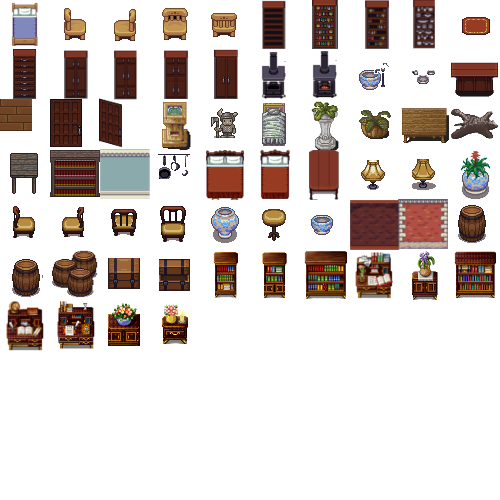
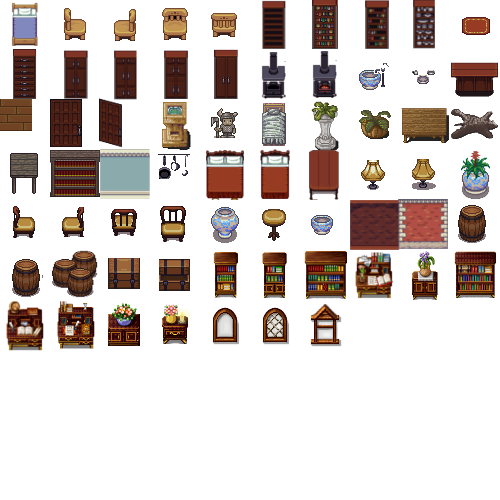
Added windows

Changed region(s): [[0.51, 0.6, 0.69, 0.69], [0.42, 0.6, 0.48, 0.69]]

diff --git a/Divine Right/DivineRightGame/Managers/LocalMapGenerator.cs b/Divine Right/DivineRightGame/Managers/LocalMapGenerator.cs
@@ -83,17 +83,49 @@ namespace DivineRightGame.Managers
                 {
                     generatedMap[x, 0].PutItemOnBlock(factory.CreateItem("mundaneitems",wallID.Value));
                     generatedMap[x, maplet.SizeY - 1].PutItemOnBlock(factory.CreateItem("mundaneitems",wallID.Value));
+
+                    if (maplet.WindowProbability.HasValue && maplet.WindowProbability.Value > 0)
+                    {
+                        if (random.Next(100) < maplet.WindowProbability.Value)
+                        {
+                            int itemID;
+                            //Put a window :)
+                            generatedMap[x, 0].ForcePutItemOnBlock(factory.CreateItem(DRObjects.Enums.Archetype.MUNDANEITEMS, "window", out itemID));
+                        }
+                        else if (random.Next(100) < maplet.WindowProbability.Value)
+                        {
+                            int itemID;
+                            //Put a window :)
+                            generatedMap[x, maplet.SizeY - 1].ForcePutItemOnBlock(factory.CreateItem(DRObjects.Enums.Archetype.MUNDANEITEMS, "window", out itemID));
+                        }
+                    }
                 }
 
                 for (int y = 0; y < maplet.SizeY; y++)
                 {
                     generatedMap[0, y].PutItemOnBlock(factory.CreateItem("mundaneitems", wallID.Value));
                     generatedMap[maplet.SizeX -1, y].PutItemOnBlock(factory.CreateItem("mundaneitems",wallID.Value));
+
+                    if (maplet.WindowProbability.HasValue && maplet.WindowProbability.Value > 0)
+                    {
+                        if (random.Next(100) < maplet.WindowProbability.Value)
+                        {
+                            int itemID;
+                            //Put a window :)
+                            generatedMap[0, y].ForcePutItemOnBlock(factory.CreateItem(DRObjects.Enums.Archetype.MUNDANEITEMS, "window", out itemID));
+                        }
+                        else if (random.Next(100) < maplet.WindowProbability.Value)
+                        {
+                            int itemID;
+                            //Put a window :)
+                            generatedMap[maplet.SizeX - 1, y].ForcePutItemOnBlock(factory.CreateItem(DRObjects.Enums.Archetype.MUNDANEITEMS, "window", out itemID));
+                        }
+                    }
                 }
 
-                //Now we need to see where to put the doors
+                //Shall we put a few winows as well?
 
-                //We'll check the planning map, if there is an edge which goes outside, then we put a door there
+
                 
             }
 

diff --git a/Divine Right/Objects/Graphics/SpriteManager.cs b/Divine Right/Objects/Graphics/SpriteManager.cs
@@ -140,7 +140,10 @@ namespace DRObjects.Graphics
             localSprites[(int)LocalSpriteName.PLANT_CABINET_2] = new SpriteData(HOUSEITEM, new Rectangle(100, 300, 50, 50));
             localSprites[(int)LocalSpriteName.PLANT_CABINET_3] = new SpriteData(HOUSEITEM, new Rectangle(150, 300, 50, 50));
 
-            
+            localSprites[(int)LocalSpriteName.WINDOW_1] = new SpriteData(HOUSEITEM, new Rectangle(200, 300, 50, 50));
+            localSprites[(int)LocalSpriteName.WINDOW_2] = new SpriteData(HOUSEITEM, new Rectangle(250, 300, 50, 50));
+            localSprites[(int)LocalSpriteName.WINDOW_3] = new SpriteData(HOUSEITEM, new Rectangle(300, 300, 50, 50));
+
             localSprites[(int)LocalSpriteName.WOOD_LOGS] = new SpriteData(RESOURCES_AND_TOOLS, new Rectangle(0, 0, 50, 50));
             localSprites[(int)LocalSpriteName.WOOD_LOGS_THREE] = new SpriteData(RESOURCES_AND_TOOLS, new Rectangle(50, 0, 50, 50));
             localSprites[(int)LocalSpriteName.FLOUR_SACK] = new SpriteData(RESOURCES_AND_TOOLS, new Rectangle(100, 0, 50, 50));

diff --git a/Divine Right/Divine Right/Divine Right/HelperFunctions/TestFunctions.cs b/Divine Right/Divine Right/Divine Right/HelperFunctions/TestFunctions.cs
@@ -50,6 +50,7 @@ namespace Divine_Right.HelperFunctions
             house.Tiled = true;
             house.TileID = 4;
             house.Walled = true;
+            house.WindowProbability = 20;
 
             house.MapletContents = new List<MapletContents>();
 
@@ -154,7 +155,7 @@ namespace Divine_Right.HelperFunctions
             MapletContentsMaplet library = new MapletContentsMaplet();
             Maplet libraryMaplet = new Maplet();
             library.Maplet = libraryMaplet;
-            library.Position = DRObjects.LocalMapGeneratorObjects.Enums.PositionAffinity.ANYWHERE;
+            library.Position = DRObjects.LocalMapGeneratorObjects.Enums.PositionAffinity.SIDES;
             library.Maplet = libraryMaplet;
             library.MaxAmount = 1;
             library.ProbabilityPercentage = 100;

diff --git a/Divine Right/Objects/MapBlock.cs b/Divine Right/Objects/MapBlock.cs
@@ -81,6 +81,16 @@ namespace DRObjects
         }
 
         /// <summary>
+        /// Puts a local map item int he current block. Whether the tile lets it or not.
+        /// </summary>
+        /// <param name="item"></param>
+        public void ForcePutItemOnBlock(MapItem item)
+        {
+            item.Coordinate = Tile.Coordinate;
+            this.mapItems.Add(item);
+        }
+
+        /// <summary>
         /// Removes the Nth item in the block
         /// </summary>
         /// <param name="index"></param>

diff --git a/Divine Right/Objects/LocalMapGeneratorObjects/Maplet.cs b/Divine Right/Objects/LocalMapGeneratorObjects/Maplet.cs
@@ -36,6 +36,11 @@ namespace DRObjects.LocalMapGeneratorObjects
         public bool Walled { get; set; }
 
         /// <summary>
+        /// If the maplet is walled, what's the probabilty of each single window appearing. 
+        /// </summary>
+        public int? WindowProbability { get; set; }
+
+        /// <summary>
         /// Whether the maplet has its own tiles, or if it inherits them from its parent maplet
         /// </summary>
         public bool Tiled { get; set; }

diff --git a/Divine Right/Objects/Graphics/LocalSpriteName.cs b/Divine Right/Objects/Graphics/LocalSpriteName.cs
@@ -101,6 +101,10 @@ namespace DRObjects.Graphics
         PLANT_CABINET_2,
         PLANT_CABINET_3,
 
+        WINDOW_1,
+        WINDOW_2,
+        WINDOW_3,
+
         //Resources
         WOOD_LOGS,
         WOOD_LOGS_THREE,
